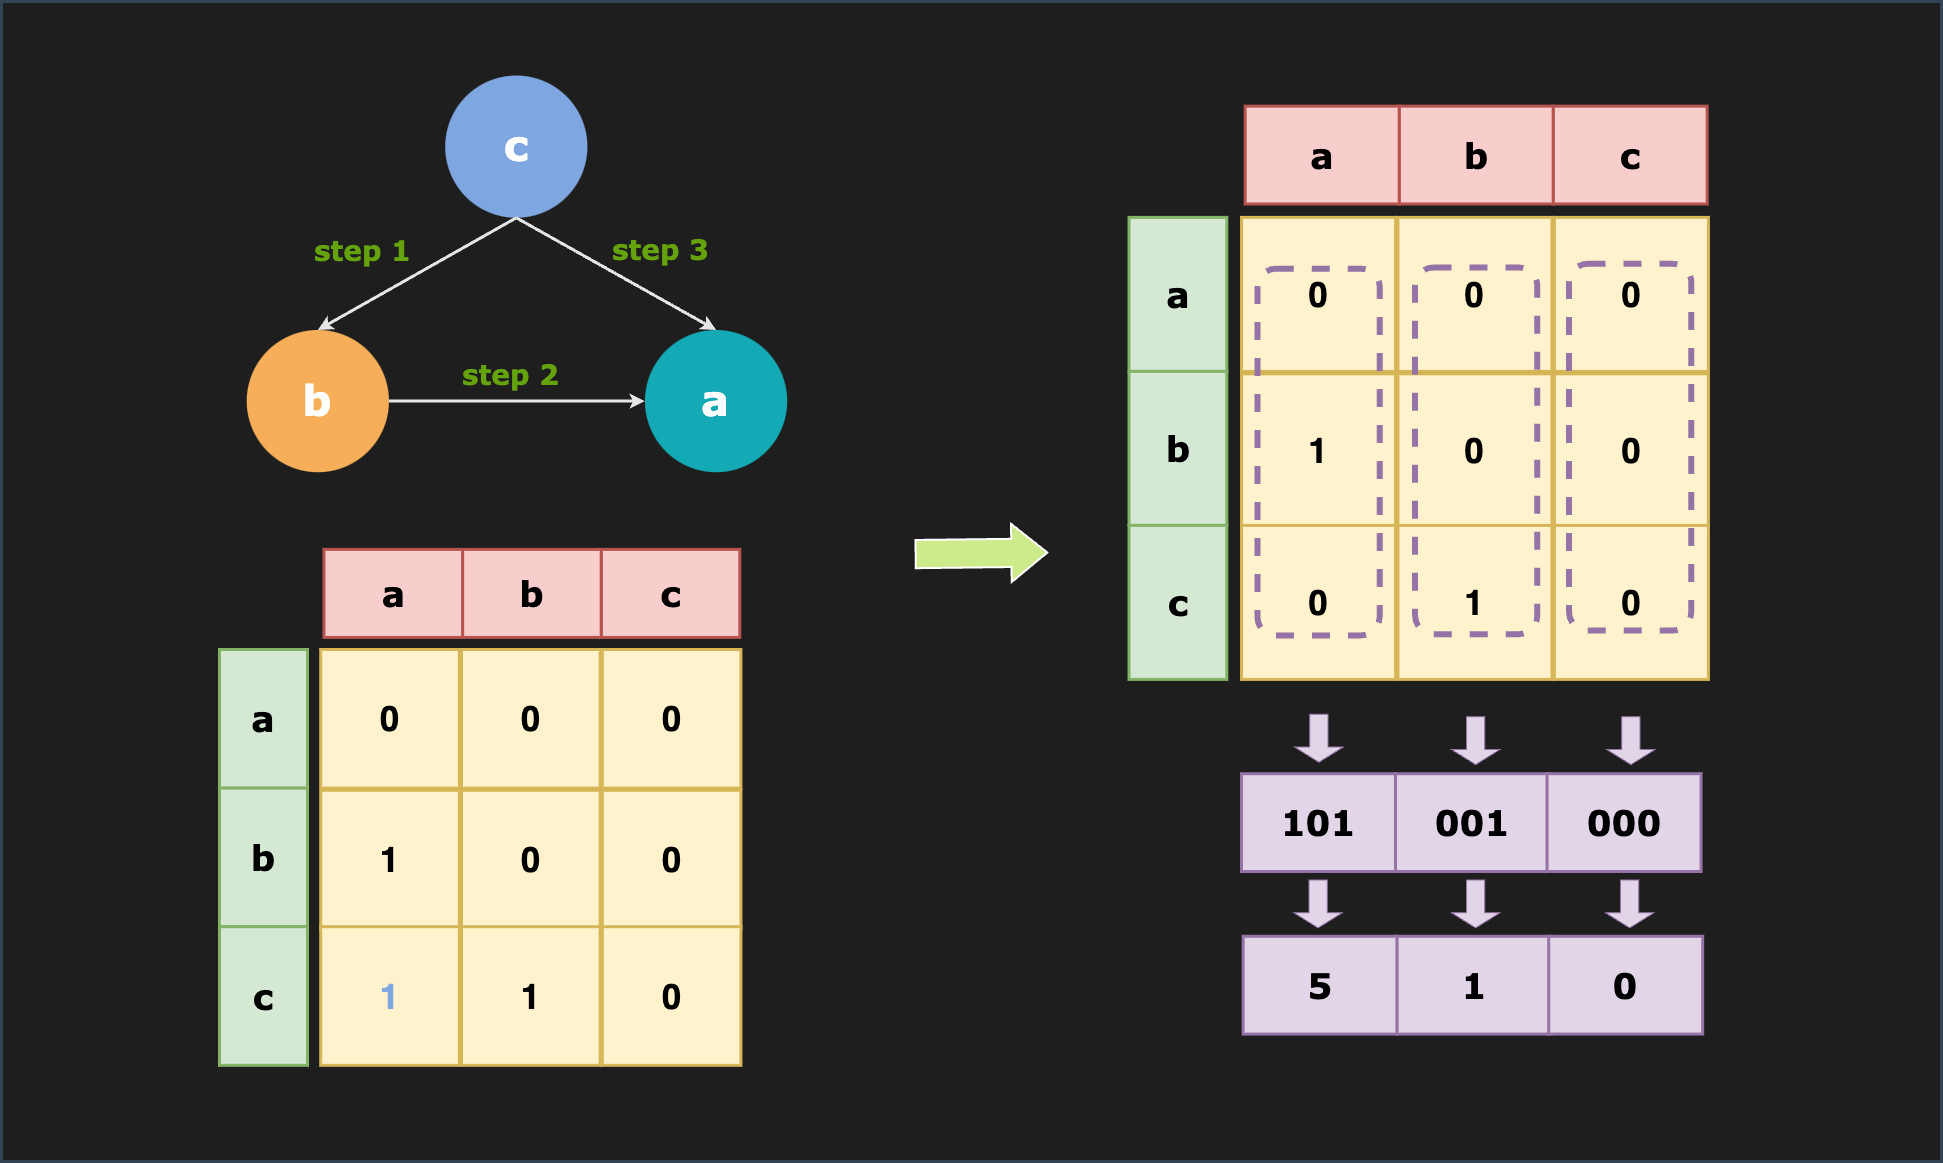
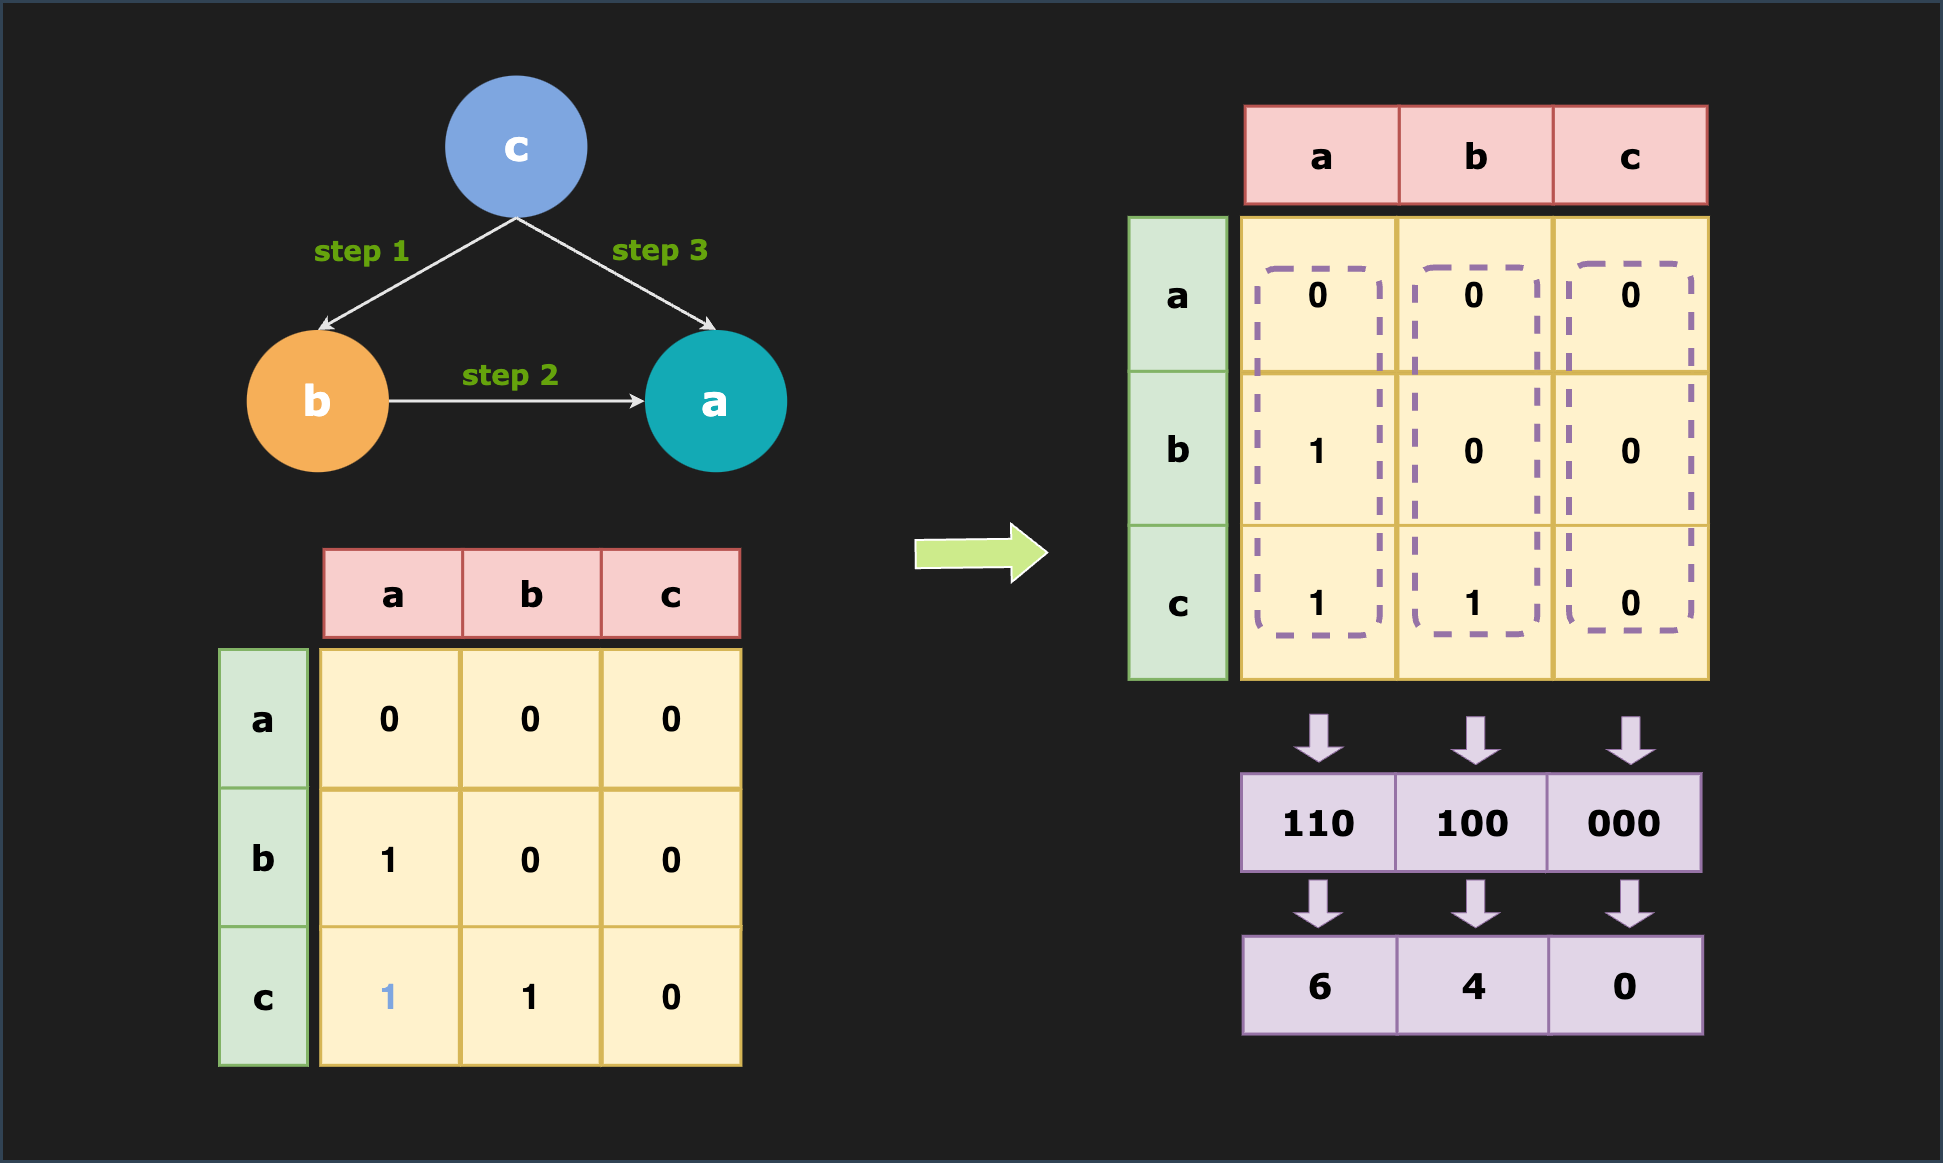
update: bitwise operations for tideman algorithm (#25)

diff --git a/content/posts/C/index.md b/content/posts/C/index.md
@@ -3,12 +3,12 @@ title = 'Optimise Tideman Algorithm Using Bitwise Operations'
 date = 2024-01-09T17:36:18+01:00
 draft = false
 slug = 'bitwise-operators' 
-tags = [ 'tideman', 'bitwise operation', 'graph theory', 'adjacency list', 'adjacency matrix', 'C', 'summary']
+tags = [ 'tideman', 'graph theory', 'bitwise operation', 'adjacency list', 'adjacency matrix', 'C', 'summary']
 series_order = 2
 +++
 
 {{< lead >}}
-The adjacency matrix is a square matrix used to represent a finite graph in graph theory. However, it can be space-consuming for sparse graphs. This article incorporates bitwise operations into the application of the adjacency matrix in the Tideman voting algorithm and achieves O(n) for finding the winner. Importantly, it also condenses the processes of locking pairs and finding winners into a concise 18 lines of code while optimising memory usage by {{< katex >}}\\(\(\frac{n-1}{n}\)\\).
+The adjacency matrix is a square matrix used to represent a finite graph in graph theory. However, it can be space-consuming for sparse graphs. This article incorporates bitwise operations into the application of the adjacency matrix in the Tideman voting algorithm and achieves O(n) and Ω(1) for finding the winners. Importantly, it also condenses the processes of locking pairs and finding winners into a concise 10 lines of code while optimising memory usage by {{< katex >}}\\(\(\frac{n-1}{n}\)\\).
 {{< /lead >}}
 
 This article will first introduce the background of the **Tideman algorithm** to enable readers who are not yet familiar with this method to build a comprehensive understanding. Subsequently, it will demonstrate all the main functions of this algorithm. If you are already comfortable with these concepts, feel free to jump to the [core discussion part](#chapter-2-4) directly.
@@ -29,8 +29,7 @@ The Tideman voting method operates as follows:
 ### 1.3. Visualisation
 To enhance clarity, consider this straightforward example for a more comprehensive comprehension.
 
-**Tally**
-Suppose that there are 3 candidates {a, b, c} and 10 voters, such that the votes are tallied as shown in [Table 1](#table1).
+**Tally**: Suppose that there are 3 candidates {a, b, c} and 10 voters, such that the votes are tallied as shown in [Table 1](#table1).
 <a name="table1"></a>
 <p align="center">
 <em>Table 1. Table of Ballots</em>
@@ -42,8 +41,7 @@ Suppose that there are 3 candidates {a, b, c} and 10 voters, such that the vote
 | b | 8 | 0 | 1 |
 | c | 4 | 9 | 0 |
 
-**Sort**
-The pairs are then sorted in decreasing order by strength of victory.
+**Sort**: The pairs are then sorted in decreasing order by strength of victory.
 <a name="table2"></a>
 <p align="center">
 <em>Table 2. Sorted Pairs</em>
@@ -55,8 +53,7 @@ The pairs are then sorted in decreasing order by strength of victory.
 | 2 |    b   |   a   |     8    |
 | 3 |    a   |   c   |     6    |
 
-**Lock**
-In this step, the Tideman algorithm locks the pairs from the strongest strength and avoids creating cycles. To represent this, we can create a matrix with all the initial values set as "0", and then use "1" to represent "locked" pairs. 
+**Lock**: In this step, the Tideman algorithm locks the pairs from the strongest strength and avoids creating cycles. To represent this, we can create a matrix with all the initial values set as "0", and then use "1" to represent "locked" pairs. 
 <a name="table3"></a>
 <p align="center">
 <em>Table 3. Locked Pairs</em>
@@ -64,14 +61,14 @@ In this step, the Tideman algorithm locks the pairs from the strongest strength 
 
 |   | a | b | c |
 |:-:|:-:|:-:|:-:|
-| a | 0 | 0 | 1 |
+| a | 0 | 0 | 0 |
 | b | 1 | 0 | 0 |
 | c | 0 | 1 | 0 |
 
-**Candidate graph**
+**Candidate graph**<br>
 The aforementioned procedure can be illustrated through graphs containing nodes and arrows representing edges. In particular,  a node is a candidate, and an edge from candidate a to candidate b indicates that candidate a wins against candidate b in a head-to-head matchup. The matchup edges are “locked” to the graph one at a time, based on the sorted order without creating a cycle. If a cycle is anticipated, the corresponding pair will be omitted.
 
-The graph representing the above process is depicted in [Figure 1](candidate-graph.png). According to the Tideman method, the victor of the election is the candidate who never appears as a "loser"; consequently, they should be the “source” of the graph with no arrows pointing towards them. Therefore, in this case, candidate C is considered the winner.
+The graph representing the above process is depicted in [Figure 1](candidate-graph.png). According to the Tideman method, the winner of the election is the candidate who never appears as a "loser"; consequently, s/he should be the "source" of the graph with no arrows pointing towards him/her. Therefore, candidate c is considered the winner.
 
 <p align="center">
 <em>Figure 1. Directed Graph</em>
@@ -82,10 +79,10 @@ The graph representing the above process is depicted in [Figure 1](candidate-gra
 
 
 ## 2. Build the Tideman Electoral System in C
-The crucial steps in the Tideman method include 6 functions: `vote()`, `record_preferences()`,`add_pairs()`, `sort_pairs()`, `lock_pairs()`, and `print_winner()`.
+The crucial steps in the Tideman method include 6 functions: `vote`, `record_preferences`,`add_pairs`, `sort_pairs`, `lock_pairs`, and `print_winner`.
 
 ### 2.1. Record Votes
-The `vote` function collects ballots from voters and ensures their validity by verifying if the names appear in the `candidate` list. After validation, the function proceeds to record the votes.
+The `vote` function collects ballots from voters and ensures their validity by verifying if the names appear in the `candidate` list. Afterwards, it proceeds to record the votes.
 
 Following the voting process, the `record_preference` function generates pairs of winners and losers, counting the occurrences of each pair in the `preference` array. For example, `preference[i][j] = 3` indicates that there are 3 voters that prefer candidate i over candidate j.
 
@@ -184,7 +181,7 @@ void sort_pairs(void)
 ### 2.4. Lock Pairs {#chapter-2-4}
 The `lock_pairs` function would create the locked graph, adding all pairs in decreasing order of victory strength so long as the edge would not create a cycle.
 
-This is the most fun part of this algorithm! Initially, I employed a very cumbersome method with a total of 70 lines of code, involving 5 `for` loops. After exploring together with Juju, we adopted the bitwise operation method and successfully locked pairs without creating a cycle and find the winner with 18 lines of code and achieved O(n) and Ω(1), while also optimising memory usage by {{< katex >}}\\(\(\frac{n-1}{n}\)\\) comparing to the adjacency matrix method.
+This is the most fun part of this algorithm! Initially, I employed a very cumbersome method, involving numerous embedded loops. After exploring together with Juju, we adopted the bitwise operation method and successfully locked pairs without creating a cycle and find the winner with 10 lines of code in total and achieved O(n) and Ω(1), while also optimising memory usage by {{< katex >}}\\(\(\frac{n-1}{n}\)\\) comparing to the adjacency matrix method.
 
 
 #### 2.4.1. Adjacency List Method 
@@ -214,10 +211,10 @@ The skeleton of implementing the Tideman algorithm using the adjacency list conc
 2. Iterate through all the pairs in `pairs`:
    - Check if the new pair will create a cycle with existing connections in `NEW`. If not:
        - Lock the new pair in `locked` and add this pair in `NEW`.
-       - For each newly added pair, update all the connections in `NEW`. To build the connection, simply check if the winner of the new pair ever appeared as the loser in the previous pair, and update the new connection by adding it to the list.
+       - For each newly added pair, update all the connections in `NEW`. To build the connection, simply check if the winner of the new pair ever appeared as the loser in the previous pair, and update the new connections by adding them to the list `NEW`.
 
 {{< alert "bell" >}}
-When creating new connections (links), ensure to avoid duplication to prevent exceeding the size of the array.
+When creating new connections (links), make sure to skip duplicated pairs to prevent exceeding the size of the array.
 {{< /alert >}}
 
 ```c
@@ -291,7 +288,7 @@ The skeleton of implementing the Tideman algorithm using the adjacency list conc
 2. Iterate through all the pairs in `pairs`:
 	- Check if the new pair will create a cycle with existing connections in `NEW` by checking if the reverse pair is `true` in the matrix. If not:
       - Lock the new pair in `locked` and add this pair in `NEW`.
-      - For each newly added pair, update all the connections in `NEW`. To build the connection, simply iterate all raws and use `Logical OR` to accept all the `true`s from `NEW[j][winner]`(j that wins over the winner) to `NEW[loser]` (given that `winner -> loser`, and `j -> winner`, we can conclude that `winner -> loser`).
+      - For each newly added pair, update all the connections in `NEW`. To build the connection, simply iterate all raws and use `Logical OR` to accept all the `true`s from `NEW[j][winner]`(j that wins over the winner) to `NEW[loser]` (given that `winner -> loser` and `j -> winner`, we can conclude that `winner -> loser`).
 
 ```c
 void lock_pairs(void)
@@ -323,7 +320,7 @@ void lock_pairs(void)
 ```
 
 #### 2.4.3. Bitwise Operation Method
-Although the adjacency matrix is very straightforward, a concern arises when applying it to a graph with sparse connections, resulting in a matrix predominantly filled with `0` and a scarcity of `1`. To optimise memory usage and reduce the average time that the algorithm takes to find the winner, bitwise operations are incorporated in this section.
+Although the adjacency matrix is very straightforward, a concern arises when applying it to a graph with sparse connections, resulting in a matrix predominantly filled with `0` and a scarcity of `1`. To optimise memory usage and reduce the average running time that the algorithm takes to find the winner, bitwise operations are incorporated in this section.
 
 A **bitwise operation** operates on a [bit string](https://en.wikipedia.org/wiki/Bit_string "Bit string"), a [bit array](https://en.wikipedia.org/wiki/Bit_array "Bit array") or a [binary numeral](https://en.wikipedia.org/wiki/Binary_numeral_system "Binary numeral system") (considered as a bit string) at the level of its individual [bits](https://en.wikipedia.org/wiki/Bit "Bit") [^5]. Bitwise operations commonly use less power because of the reduced use of resources [^6]. Here is the list of all the bitwise operators with examples.
 - `&`  **Bitwise AND**: Conduct AND on every bit of two numbers.<br>
@@ -339,16 +336,15 @@ A **bitwise operation** operates on a [bit string](https://en.wikipedia.org/w
 - `>>`  **Right shift**: Shifts the bits of the first operand to the right by the number of positions specified by the second operand.<br>
     `int result = 20 >> 3; // 10100 >> 10`
 
+In the context of tideman, pair `{pair[i].winner,pair[i].loser}` will represent as winner<sup>th</sup> bit in the binary format of `NEW[pair[i].loser]`. We can use `1 << n` to represent n<sup>th</sup> bit of `NEW[i]` (e.g.: `1 << 2` = `100`, which sets the 2<sup>th</sup> bit to 1). We can use `&` to check if n<sup>th</sup> bit is `0` or `1` and use `|` to set n<sup>th</sup> bit to `1`.
+
 <img src="bitwise-operation.png" alt="bitwise-operation" style="display: block; margin: auto;">
 <br>
-
-In the context of tideman, pair `{pair[i].winner,pair[i].loser}` will represent as winner<sup>th</sup> bit in the binary format of `NEW[pair[i].loser]`. We can use `1 << n` to represent n<sup>th</sup> item of `NEW[i]` (e.g.: `1 << 2` = `100`, which sets the 2<sup>th</sup> bit to 1). We can use `&` to check if n<sup>th</sup> item exist and use `|` to set n<sup>th</sup> item to 1.
-
 The skeleton of implementing the Tideman algorithm incorporating the bitwise operations can be summarised in the following steps:
-1. Create a new empty array `NEW` with the size of the maximum candidate count and initialise all elements of the array to zero
+
+1. Create a new empty array `NEW` with the size of the maximum candidate count and initialise all elements of the array to `0`.
 2. Iterate through all the pairs in `pairs`:
-	- Use `&` to check if the new pair will create a cycle with existing connections in `NEW` by verifying if the loser<sup>th</sup> item in the winner<sup>th</sup> column already exists. If not:
-         - Lock the new pair in `locked` and add this pair in `NEW` using `|=`.
+	- Use `&` to check if the new pair will create a cycle with existing connections in `NEW` by verifying if the loser<sup>th</sup> bit of the winner<sup>th</sup> item in `NEW` already exists. If not, lock the new pair in `locked` and add this pair and all connections in `NEW` using `|=`.
 ```c
 void lock_pairs(void)
 {
@@ -367,9 +363,9 @@ void lock_pairs(void)
 ### 2.5. Find the Winner
 
 #### 2.5.1. Find the Winner with Adjacency List and Adjacency Matrix
-The `print_winner` function will print out the name of the candidate who is the winner under Tideman algorithm. The winner should be the "source" of the graph meaning that no arrows point to him/her. 
+The `print_winner` function will print out the names of the candidates who are the winners under Tideman algorithm. The winners should be the "source" of the graph meaning that no arrows point to them. 
 
-For the adjacency list and adjacency matrix method, the `print_winner` checks every `loser` column, and breaks if meets any `true`.
+For the adjacency list and adjacency matrix method, the `print_winner` checks every `loser` column in `locked`, and breaks if meets any `true` (which means this candidate was a loser in a pair).
 ```c
 void print_winner(void)
 {
@@ -392,8 +388,8 @@ void print_winner(void)
 }
 ```
 
-#### 2.5.1. Using Bitwise Operation
-For the bitwise operation method, `print_winner` just needs to simply find the `0`s in the array.
+#### 2.5.1. Find the Winner Using Bitwise Operation
+For the bitwise operation method, `print_winner` just needs to simply find the all the `0`s in the array `NEW`.
 ```c
 void print_winner(void)
 {
@@ -407,10 +403,39 @@ void print_winner(void)
 }
 ```
 
-Big thanks to Juju for making the exploration journey so fun and CS50 staff for bringing us such an amazing [exercise](https://cs50.harvard.edu/x/2020/psets/3/tideman/)!
+Combing the `lock_pairs` and `print_winner` together, here is all we need using the bitwise operations to find the winners.
+
+```c
+void find_winners(void)
+{
+    int NEW[MAX] = {};
+    for (int i = 0; i < pair_count; i++)
+    {
+        if (!(NEW[pairs[i].winner] & (1 << pairs[i].loser)))
+        {
+            locked[pairs[i].winner][pairs[i].loser] = true;
+            NEW[pairs[i].loser] |= ((1 << pairs[i].winner) | NEW[pairs[i].winner]);
+        }
+    }
+ 
+    for (int k = 0; k < candidate_count; k++)
+    {
+        if (NEW[k] == 0)
+        {
+            printf("%s\n", candidates[k]);
+        }
+    }
+}
+
+
+```
+
+I hope this is enjoyable and helpful. A big thanks to Juju for making the exploration journey so much fun, and CS50 staff for bringing us such an amazing [exercise](https://cs50.harvard.edu/x/2020/psets/3/tideman/)!
 
 <div style="display:flex; gap:6px">
 {{< badge >}} tideman {{< /badge >}}
+
+{{< badge >}} graph theory {{< /badge >}}
 
 {{< badge >}} bitwise operation {{< /badge >}}
 
